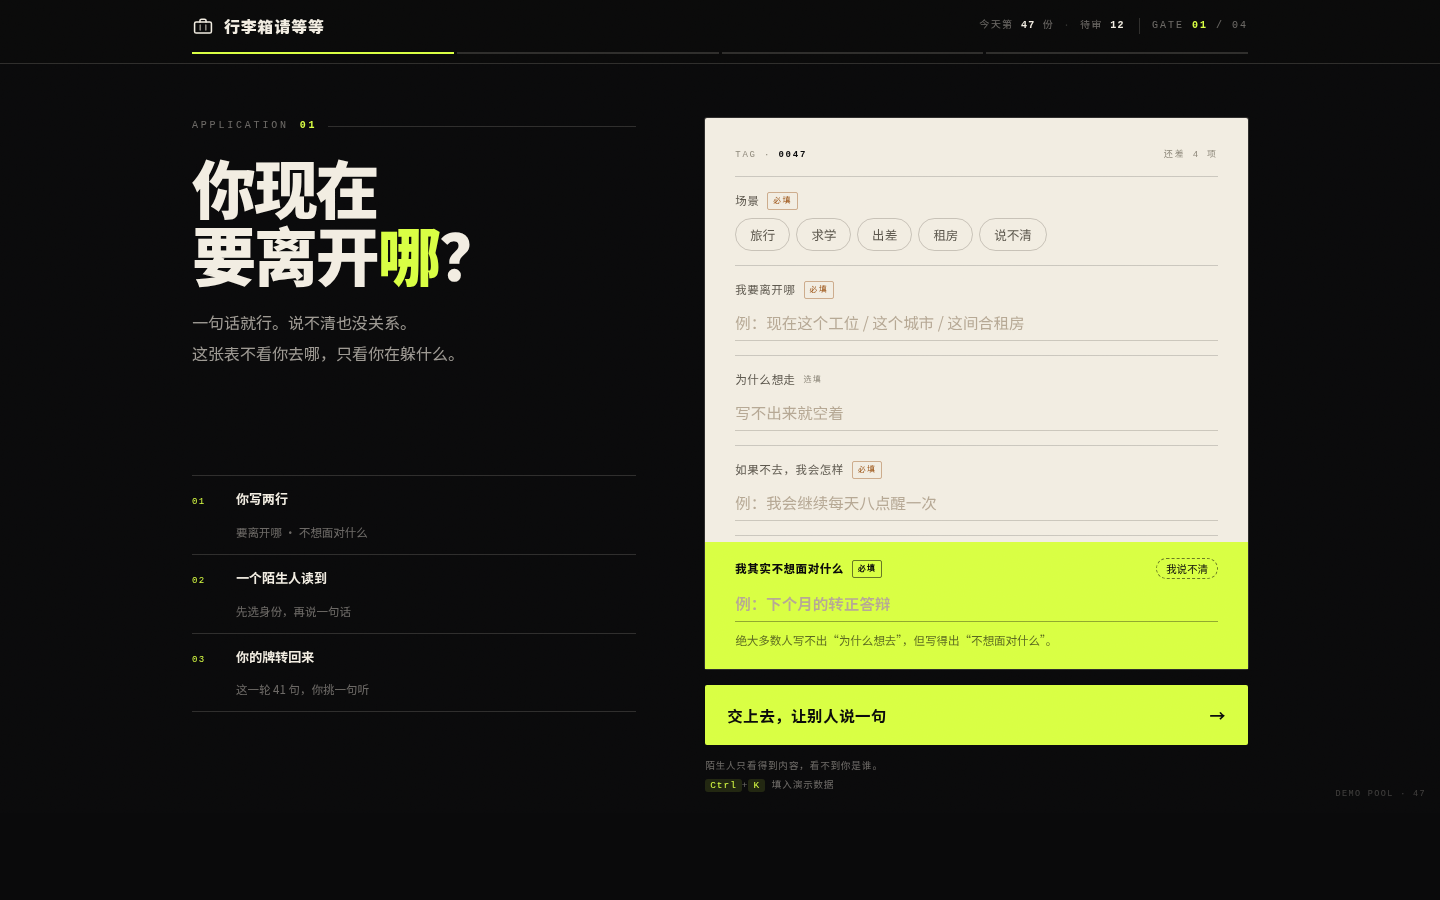
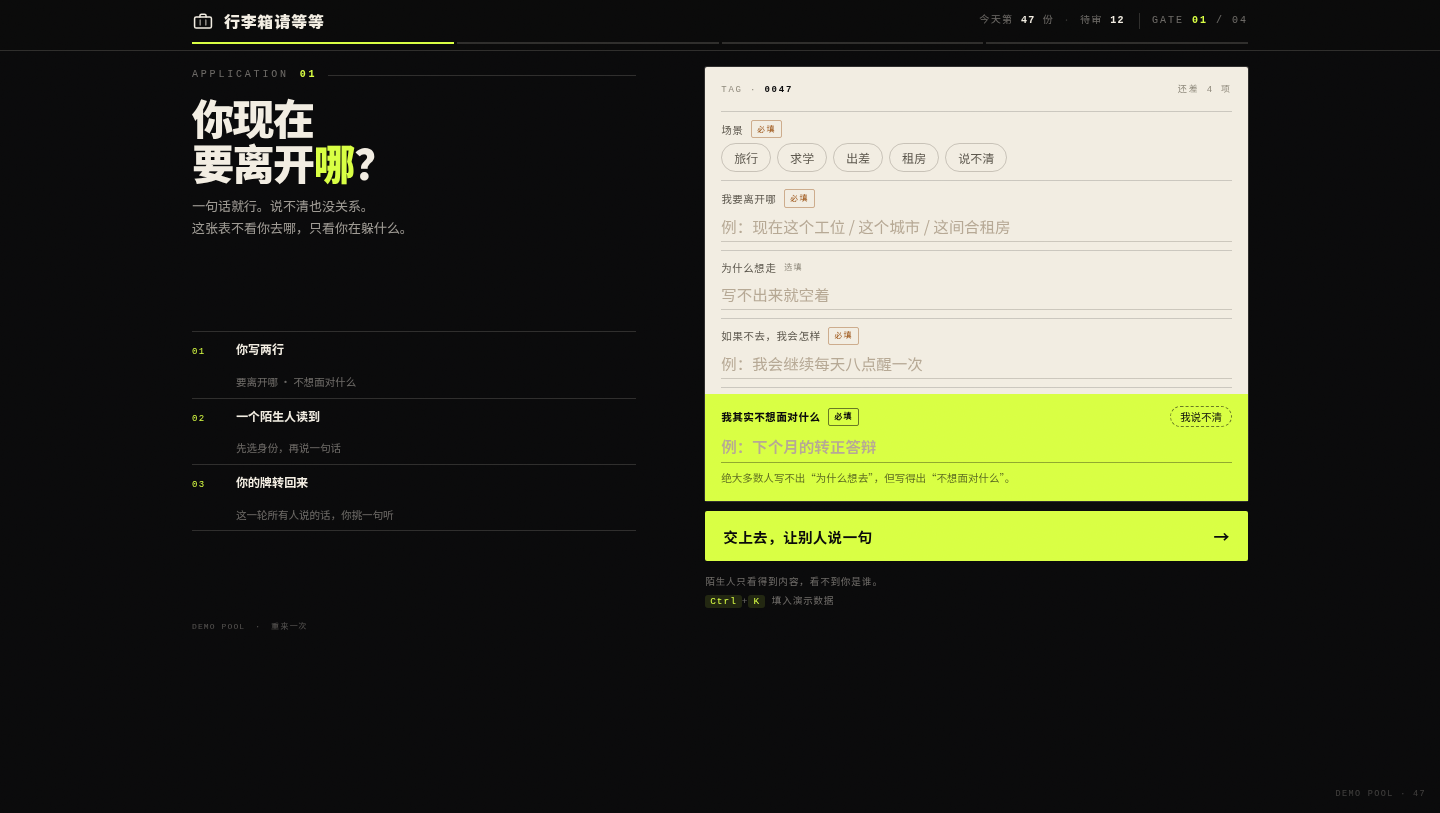
fix: 修复口碑句按钮点击无反应，并加入分辨率自适应
两个线上才暴露的问题：

1. 「收下了 / 过了」点了没反应
   三句口碑改成 renderQuotes() 动态渲染后，事件监听还停留在加载时
   绑定的旧节点上。改为 document 级事件委托。
   顺带：按钮从被推到列最右改为紧跟落款，加 aria-pressed 与 toast 反馈。

2. 超时阈值 1.5 秒太紧
   Supabase 免费版冷启动实测 1.72 秒，会被误判为离线直接掉进静态轨。
   改为启动 6 秒（失败重试一次）、交互 4 秒。

另外补了按视口高度分档的压缩（>860 / ≤860 / ≤700），
四页在 1280×720、1024×768、1440×900、1920×1080 下均不溢出。

Changed region(s): [[0.125, 0.0, 0.875, 0.8918], [0.125, 0.123, 0.3438, 0.738], [0.2188, 0.738, 0.25, 0.7688]]

diff --git a/index.html b/index.html
@@ -149,9 +149,10 @@ h1.display em{ font-style:normal; color:var(--amber); }
 
 /* ── 纸 ─────────────────────────────────────────── */
 .paper{
+  --pp: clamp(20px,3vw,30px);
   background:var(--paper); color:var(--ink);
   box-shadow:var(--shadow); border-radius:2px;
-  padding:clamp(20px,3vw,30px); position:relative;
+  padding:var(--pp); position:relative;
 }
 .paper::before{
   content:""; position:absolute; inset:0; pointer-events:none; border-radius:2px;
@@ -202,8 +203,8 @@ h1.display em{ font-style:normal; color:var(--amber); }
 
 /* 关键格 */
 .f.key{
-  margin:6px calc(clamp(20px,3vw,30px) * -1) calc(clamp(20px,3vw,30px) * -1);
-  padding:16px clamp(20px,3vw,30px) 19px;
+  margin:6px calc(var(--pp) * -1) calc(var(--pp) * -1);
+  padding:16px var(--pp) 19px;
   background:var(--amber);
   border-top:0;
   border-left:0;
@@ -377,7 +378,7 @@ h1.display em{ font-style:normal; color:var(--amber); }
 .quote p{ text-wrap:pretty; font-family:var(--sans); font-weight:700; font-size:clamp(14px,2.5vw,17px); line-height:1.6; }
 .quote p::before{ content:"「" } .quote p::after{ content:"」" }
 .quote .by{ display:flex; align-items:center; gap:8px; margin-top:6px; font-family:var(--mono); font-size:9px; letter-spacing:.1em; color:var(--cream-faint); flex-wrap:wrap; }
-.quote .react{ margin-left:auto; display:flex; gap:5px; }
+.quote .react{ display:flex; gap:6px; margin-left:10px; padding-left:10px; border-left:1px solid var(--line); }
 .mini{
   font-family:var(--sans); font-size:10px; letter-spacing:0; background:transparent;
   border:1px solid var(--line); color:var(--cream-faint);
@@ -479,6 +480,89 @@ h1.display em{ font-style:normal; color:var(--amber); }
   .screen--swap.on{ grid-template-columns:.8fr 1.2fr; grid-template-areas:"h a"; column-gap:clamp(42px,4.8vw,76px); align-items:start; }
   .screen--swap .col-a{ padding-top:4px; }
 }
+/* ── 矮屏（720p 投影、笔记本半屏）：整体压缩，保证一屏可见 ── */
+@media (max-height:860px){
+  .wrap{ padding-top:16px; padding-bottom:8px; }
+  .topbar-in{ padding-top:8px; padding-bottom:8px; }
+  .rail{ padding-bottom:6px; }
+  .kicker{ margin-bottom:10px; }
+  h1.display{ font-size:clamp(28px,3.8vw,42px); margin-bottom:10px; line-height:1.08; }
+  h1.display.sm{ font-size:clamp(24px,3.2vw,36px); }
+  .sub{ font-size:13px; line-height:1.7; margin-bottom:12px; }
+
+  .paper{ --pp:16px; }
+  .f{ padding:8px 0; }
+  .f label{ margin-bottom:5px; font-size:10.5px; }
+  .f input{ font-size:15px; padding-bottom:4px; }
+  .f.key{ padding:12px var(--pp) 14px; }
+  .f.key input{ font-size:16px; }
+  .hint{ font-size:10.5px; margin-top:6px; }
+  .chip{ padding:5px 12px; font-size:12px; }
+
+  .btn{ padding:13px 18px; margin-top:10px; font-size:14.5px; }
+  .steps li{ padding:7px 0; }
+  .steps b{ font-size:12px; }
+  .steps span{ font-size:10.5px; }
+
+  .label-row{ margin:12px 0 7px; }
+  .id{ padding:9px 10px; }
+  .id b{ font-size:13px; }
+  .id span{ font-size:10px; }
+  .vote{ padding:10px 12px; }
+  .vote b{ font-size:19px; }
+  .reason textarea{ min-height:52px; padding:10px; font-size:14px; }
+  .guard{ padding:8px 10px; margin-top:7px; }
+
+  .pass .pl{ padding:6px 0; }
+  .pass .pl .k{ font-size:8px; margin-bottom:3px; }
+  .pass .pl .v{ font-size:clamp(16px,2.3vw,21px); }
+  .pass .pcounts{ padding:7px 0 2px; }
+  .pass .pcounts .pc b{ font-size:clamp(20px,2.8vw,26px); }
+  .pass .pcounts .pc span{ font-size:10.5px; margin-top:4px; }
+  .pass-foot{ font-size:8px; }
+
+  .quotes{ margin-top:8px; }
+  .quote{ margin-bottom:7px; padding-left:11px; }
+  .quote p{ font-size:14px; line-height:1.5; }
+  .quote .tone{ font-size:7.5px; padding:1px 6px; margin-bottom:3px; }
+  .quote .by{ margin-top:3px; font-size:8.5px; }
+  .mini{ font-size:9px; padding:2px 7px; }
+
+  .disclaimer{ font-size:10.5px; line-height:1.6; }
+  .poolviz{ margin:10px 0 5px; }
+  .poolviz i{ height:5px; }
+  .poolcap{ font-size:8px; line-height:1.6; }
+  .round{ font-size:8px; margin-top:5px; }
+
+  .face{ min-height:190px; padding:20px; }
+  .face blockquote{ font-size:17px; margin-bottom:10px; }
+  .note-block{ margin-top:14px; font-size:11px; }
+  .mini-stats{ margin-top:14px; padding-top:10px; }
+  .foot{ padding-bottom:8px; font-size:8px; }
+  .cardnote{ margin-top:6px; padding:5px 8px; font-size:8px; }
+}
+
+/* ── 极矮屏（1280×720 窗口化）：只压间距，不砍内容 ── */
+@media (max-height:700px){
+  .wrap{ padding-top:10px; padding-bottom:4px; }
+  .foot{ display:none; }
+  .round{ display:none; }
+  h1.display{ font-size:clamp(26px,3.4vw,38px); }
+  h1.display.sm{ font-size:clamp(23px,3vw,32px); }
+  .sub{ font-size:12.5px; line-height:1.65; margin-bottom:10px; }
+  .kicker{ margin-bottom:9px; }
+  .pass .pl{ padding:4px 0; }
+  .pass .pl .v{ font-size:clamp(16px,2.1vw,20px); }
+  .pass .pcounts{ padding:6px 0 2px; }
+  .pass .pcounts .pc b{ font-size:clamp(19px,2.5vw,23px); }
+  .quote{ margin-bottom:5px; }
+  .quote p{ font-size:13px; line-height:1.45; }
+  .quotes{ margin-top:5px; }
+  .btn{ padding:11px 16px; margin-top:8px; }
+  .poolviz{ margin:12px 0 6px; }
+  .steps li{ padding:6px 0; }
+}
+
 @media (max-width:640px){
   .ids{ grid-template-columns:1fr; }
   .id{ display:grid; grid-template-columns:20px 1fr; column-gap:9px; padding:11px 13px; }
@@ -1186,7 +1270,7 @@ function renderQuotes(list){
   box.innerHTML = list.map(function(q,i){
     const helpful = (q.helpful != null) ? '<span>· ' + q.helpful + ' 人觉得有用</span>' : '';
     const react = (i === 0)
-      ? '<span class="react"><button class="mini" data-on="0" type="button">收下了</button><button class="mini" data-on="0" type="button">过了</button></span>'
+      ? '<span class="react"><button class="mini" data-on="0" aria-pressed="false" type="button">收下了</button><button class="mini" data-on="0" aria-pressed="false" type="button">过了</button></span>'
       : '';
     return '<div class="quote" data-tone="' + esc(q.tone) + '">' +
              '<span class="tone">' + esc(q.tone) + '</span>' +
@@ -1259,12 +1343,22 @@ function buildPoolViz(seen){
   box.innerHTML = order.map((_,pos) => '<i class="' + (pos < lit ? "lit" : "") + '"></i>').join("");
 }
 
-$$(".mini").forEach(b => b.addEventListener("click", () => {
+/* 口碑句的「收下了 / 过了」：必须用事件委托。
+   这几句是 renderQuotes() 动态生成的，加载时绑定会绑到已经被替换掉的旧节点上。 */
+document.addEventListener("click", e => {
+  const b = e.target.closest(".mini");
+  if(!b) return;
   const on = b.dataset.on === "1";
   const group = b.closest(".react");
-  if(group) Array.from(group.querySelectorAll(".mini")).forEach(x => { x.dataset.on = "0"; });
+  if(group) Array.from(group.querySelectorAll(".mini")).forEach(x => {
+    x.dataset.on = "0"; x.setAttribute("aria-pressed","false");
+  });
   b.dataset.on = on ? "0" : "1";
-}));
+  b.setAttribute("aria-pressed", String(!on));
+  if(!on){
+    toast(b.textContent.trim() === "收下了" ? "收下了。" : "划过去了。");
+  }
+});
 
 /* ── 页四 ───────────────────────────────────────── */
 function renderCard(i){

diff --git a/api.js b/api.js
@@ -2,7 +2,8 @@
    api.js —— Supabase 适配层
    设计原则：这一层挂了，主演示不能挂。
    · 只用 fetch，不引 supabase-js（少一个 CDN 失败面）
-   · 所有调用 1.5 秒超时，超时即降级
+   · 超时可配置：启动 6 秒，交互 4 秒（Supabase 免费版冷启动实测 1.7s，
+     原来定 1.5s 会把正常响应误判成离线，现场直接掉进静态轨）
    · 任何异常都往上抛，由 index.html 决定回落到 data.js
    ========================================================================== */
 (function(){
@@ -29,7 +30,7 @@
   function rpc(fn, args, ms){
     if(!URL_BASE || !KEY) return Promise.reject(new Error("config_empty"));
     const ctrl = new AbortController();
-    const timer = setTimeout(() => ctrl.abort(), ms || 1500);
+    const timer = setTimeout(() => ctrl.abort(), ms || 4000);
     return fetch(URL_BASE + "/rest/v1/rpc/" + fn, {
       method: "POST",
       headers: {
@@ -57,7 +58,9 @@
     deviceId,
 
     bootstrap(){
-      return rpc("api_bootstrap", {});
+      // 冷启动最慢，给足 6 秒；失败一次再试一次，仍失败才回落
+      return rpc("api_bootstrap", {}, 6000).catch(() =>
+             rpc("api_bootstrap", {}, 6000));
     },
 
     submitApplication(d){

diff --git a/docs/05-发布流程.md b/docs/05-发布流程.md
@@ -143,6 +143,7 @@ gh api -X PUT repos/<owner>/<repo>/collaborators/<对方的 GitHub 用户名> \
 - [ ] `?static=1` 正常（关动画）
 - [ ] `?live=1` 角标显示「在线 · 真实池子」
 - [ ] 手机打开链接，版面不塌、不横向滚动
+- [ ] 四页在 1280×720 / 1440×900 / 1024×768 / 1920×1080 下均不溢出（见下方分辨率矩阵）
 - [ ] 顶栏「今天第 N 份」与数据库实际条数一致
 - [ ] 提交一次，序号 +1
 - [ ] 断网后刷新，角标变「离线 · 演示数据」，演示照常
@@ -171,6 +172,29 @@ done
 | 手机横向溢出 | 忘了 `viewport` meta | 检查 `<meta name="viewport">` |
 
 ---
+
+## 七点半、分辨率矩阵
+
+页面按**视口高度**自动分档，不需要手动切：
+
+| 视口高度 | 生效档位 | 效果 |
+|---|---|---|
+| > 860px | 完整版 | 1080p 投影、大屏 |
+| ≤ 860px | 中度压缩 | 1440×900 笔记本 |
+| ≤ 700px | 紧凑 | 1280×720 窗口化 |
+| ≤ 640px 宽 | 单栏 | 手机 |
+
+**实测（四页全部不溢出）：**
+
+| 分辨率 | 视口 | apply | review | verdict | swap |
+|---|---|---|---|---|---|
+| 1280×720 | 633 | 600 | 468 | 627 | 345 |
+| 1024×768 | 681 | 600 | 465 | 627 | 338 |
+| 1440×900 | 813 | 612 | 488 | 666 | 362 |
+| 1920×1080 | 993 | 796 | 641 | 841 | 517 |
+
+> 注意：headless Chrome 的 `--window-size` 含窗口边框，实际视口会少约 87px。
+> 量的时候要按视口算，不能按窗口高算——这一点踩过一次坑。
 
 ## 八、这次发布留下的记录
 
